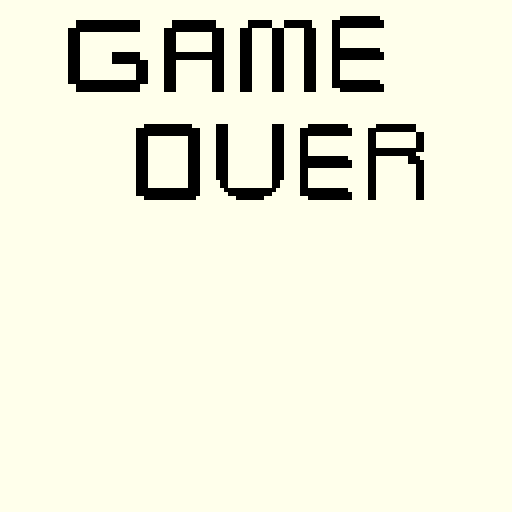
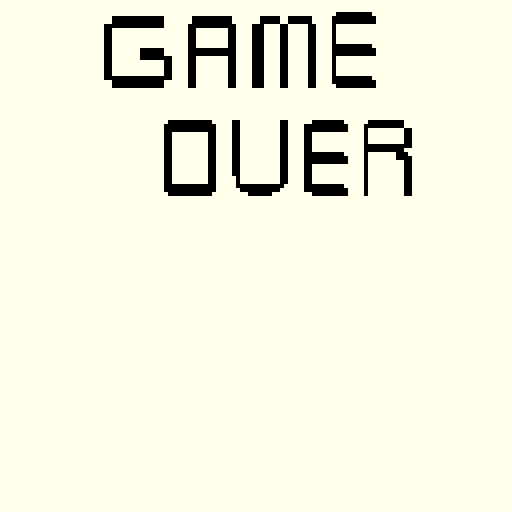
modification

Changed region(s): [[0.25, 0.2188, 0.8438, 0.4062], [0.125, 0.0312, 0.625, 0.1875], [0.6562, 0.0, 0.75, 0.1875]]

diff --git a/src/com/company/userinterface/GameScreen.java b/src/com/company/userinterface/GameScreen.java
@@ -25,7 +25,6 @@ public class GameScreen extends JPanel implements Runnable, KeyListener{
     private CollisionHandler collisionHandler;
     private Image gameoverImage;
     private JButton restartButton;
-    private double runcounter = 0.0;
     private JLabel runcounterLabel;
     private Font font;
     private String runnercounterString;
@@ -46,8 +45,6 @@ public class GameScreen extends JPanel implements Runnable, KeyListener{
             this.bunnyHitbox = new BunnyHitbox();
             this.obstacle = new Obstacle();
             this.collisionHandler = new CollisionHandler(bunnyHitbox,obstacle.getObsticleList());
-            this.restartButton = new JButton("RESTART GAME");
-            this.gameoverImage =  ImageIO.read(new File("gameover2.png")).getScaledInstance(1000, 380, Image.SCALE_SMOOTH);
         } catch (IOException e) {
         }
 
@@ -90,29 +87,40 @@ public class GameScreen extends JPanel implements Runnable, KeyListener{
             land.draw(g);
             bunny.draw(g);
             bunnyHitbox.draw(g);
-            if (i>=200) {
+            if (i>=600) {
                 obstacle.draw(g);
             }
             Color rectcolour = new Color(138, 222, 169);
             g.setColor(rectcolour);
             g.fillRoundRect(220,3,550, 25, 20, 20);
         } else {
-            if(Integer.parseInt(runnercounterString) >= Integer.parseInt(personalrecordString)){
-                clearFile();
-                try {
-                    addtoFile(runnercounterString);
-                } catch (IOException e) {
-                }
+            thread.interrupt();
+            try {
+                this.gameoverImage =  ImageIO.read(new File("gameover2.png")).getScaledInstance(1000, 380, Image.SCALE_SMOOTH);
+            } catch (IOException e) {
             }
-            this.remove(runcounterLabel);
-            setLayout(new BorderLayout());
-            add(restartButton, BorderLayout.SOUTH);
             g.drawImage(gameoverImage, 0, 0, null);
-            restartButton.addActionListener(e -> {
-                JFrame frame = (JFrame) SwingUtilities.getWindowAncestor(this);
-                frame.dispose();
-            });
+            this.restartButton = new JButton("RESTART GAME");
+            endGame();
         }
+    }
+
+    public void endGame(){
+
+        if(Integer.parseInt(runnercounterString) >= Integer.parseInt(personalrecordString)){
+            clearFile();
+            try {
+                addtoFile(runnercounterString);
+            } catch (IOException e) {
+            }
+        }
+        this.remove(runcounterLabel);
+        setLayout(new BorderLayout());
+        add(restartButton, BorderLayout.CENTER);
+        restartButton.addActionListener(e -> {
+            JFrame frame = (JFrame) SwingUtilities.getWindowAncestor(this);
+            frame.dispose();
+        });
     }
 
     public void clearFile(){
@@ -142,8 +150,7 @@ public class GameScreen extends JPanel implements Runnable, KeyListener{
         while(!gameOver){
             try {
                 i++;
-                if(i>=200){
-
+                if(i>=400){
                     runnercounterString = Integer.toString((i/10)-20);
                     runcounterLabel.setText("personal record = " + personalrecordString + " meters currently ran = " + runnercounterString);
                 }
@@ -153,7 +160,7 @@ public class GameScreen extends JPanel implements Runnable, KeyListener{
                 sky.updatelayer3();
                 sky.updatelayer4();
                 land.update();
-                if (i>=200){
+                if (i>=600){
                     obstacle.update();
                 }
                 bunny.update(this.tickcount);

diff --git a/src/com/company/objects/Land.java b/src/com/company/objects/Land.java
@@ -16,7 +16,9 @@ public class Land {
     private Image land2;
     private Image land3;
     private Image land4;
+    private Image tree;
     private ArrayList<ImageWPosX> listLandImage;
+    private ArrayList<ImageWPosX> listTreeImage;
     private int counter = 1;
     private int i = 0;
 
@@ -26,25 +28,36 @@ public class Land {
         BufferedImage bufferedland2pic = null;
         BufferedImage bufferedland3pic = null;
         BufferedImage bufferedland4pic = null;
+        BufferedImage bufferedtreepic = null;
         try {
             bufferedland1pic = ImageIO.read(new File("land1.png"));
             bufferedland2pic = ImageIO.read(new File("land2.png"));
             bufferedland3pic = ImageIO.read(new File("land3.png"));
             bufferedland4pic = ImageIO.read(new File("land4.png"));
+            bufferedtreepic = ImageIO.read(new File("tree.png"));
         } catch (IOException e) {
         }
         Image land1pic = bufferedland1pic.getScaledInstance(300, 300, Image.SCALE_SMOOTH);
         Image land2pic = bufferedland2pic.getScaledInstance(300, 300, Image.SCALE_SMOOTH);
         Image land3pic = bufferedland3pic.getScaledInstance(300, 300, Image.SCALE_SMOOTH);
         Image land4pic = bufferedland4pic.getScaledInstance(300, 300, Image.SCALE_SMOOTH);
+        Image treepic = bufferedtreepic.getScaledInstance(230, 230, Image.SCALE_SMOOTH);
 
         this.land1 = land1pic;
         this.land2 = land2pic;
         this.land3 = land3pic;
         this.land4 = land4pic;
+        this.tree = treepic;
 
         listLandImage = new ArrayList<ImageWPosX>();
+        listTreeImage = new ArrayList<ImageWPosX>();
         for(int i = 0; i < 11; i++){
+
+            if(i<=8){
+                int posxtree = 800*i;
+                ImageWPosX iTree = new ImageWPosX(posxtree, tree);
+                listTreeImage.add(iTree);
+            }
             int posx = 300*i;
             Random rand = new Random();
             int randomnum = rand.nextInt(4);
@@ -70,6 +83,7 @@ public class Land {
         for(ImageWPosX iLand: listLandImage){
             iLand.setXcooridnate((iLand.getXcooridnate()-6));
         }
+
         if(listLandImage.get(counter).getXcooridnate() == 0){
             ImageWPosX end = listLandImage.get(listLandImage.size()-1);
             Image landimage = land1;
@@ -90,9 +104,24 @@ public class Land {
             //counter++;
         }
 
+        for(ImageWPosX iTree: listTreeImage){
+            iTree.setXcooridnate((iTree.getXcooridnate()-5));
+        }
+        if(listTreeImage.get(counter).getXcooridnate() == 0){
+            ImageWPosX end = listTreeImage.get(listTreeImage.size()-1);
+            ImageWPosX newaddition = new ImageWPosX((end.getXcooridnate()+800), tree);
+            listTreeImage.add(newaddition);
+            listTreeImage.remove(0);
+            //counter++;
+        }
+
     }
 
+
     public void draw(Graphics g){
+        for(int i = 0; i < listTreeImage.size(); i++){
+            g.drawImage(listTreeImage.get(i).getImage(), listTreeImage.get(i).getXcooridnate(), 88, null);
+        }
         for(int i = 0; i < listLandImage.size(); i++){
             g.drawImage(listLandImage.get(i).getImage(), listLandImage.get(i).getXcooridnate(), 78, null);
         }
